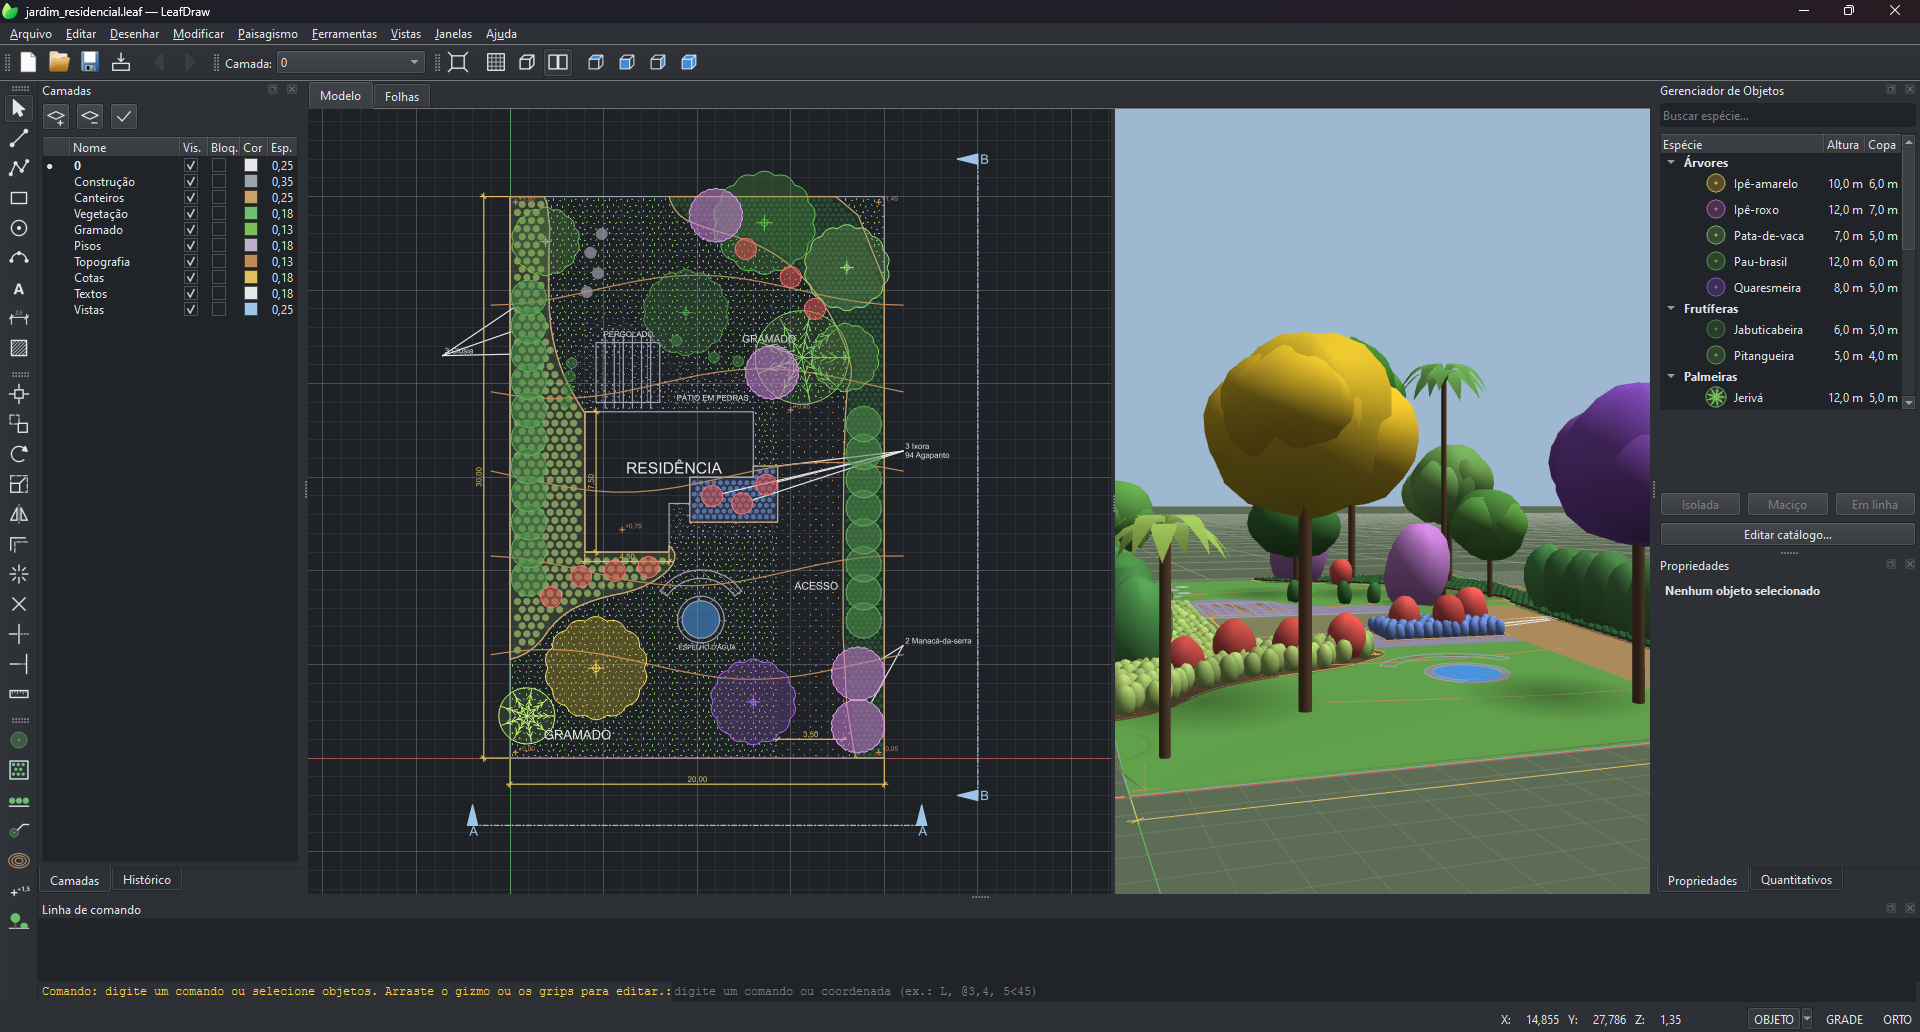
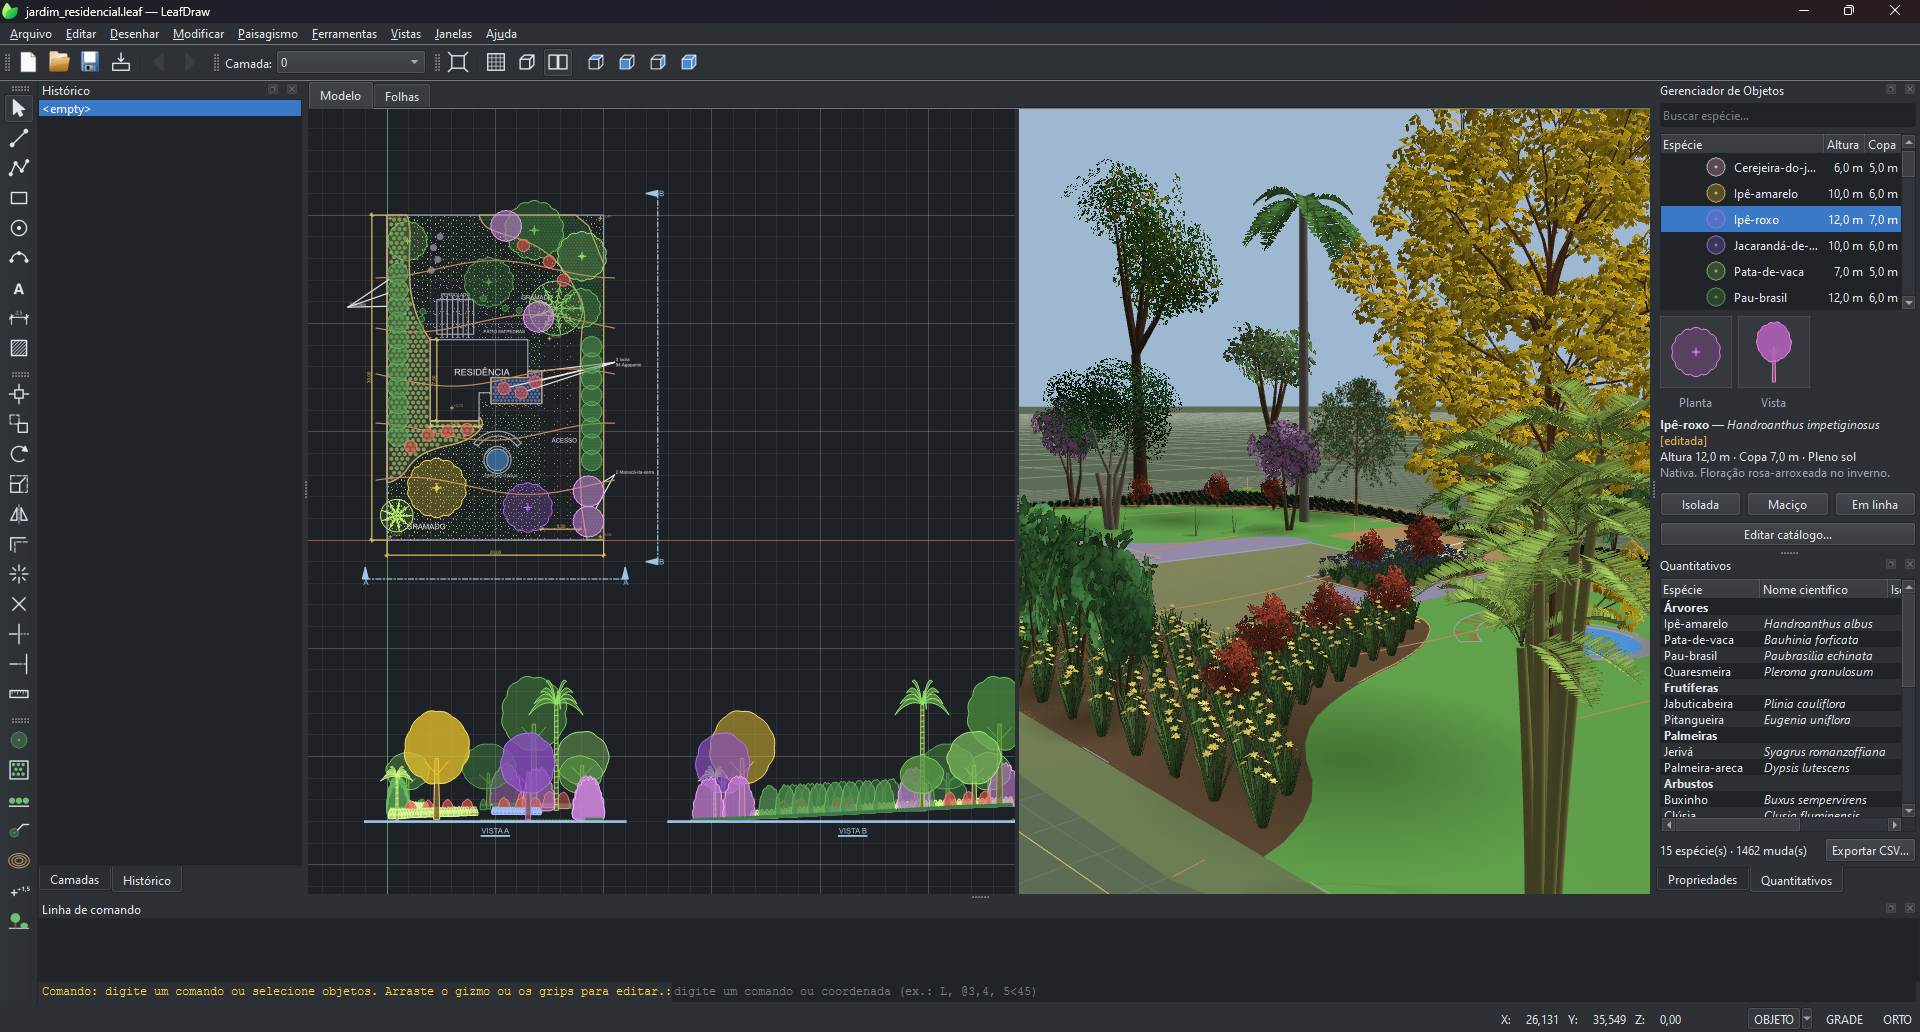
Versão 0.1.0b3
O autoteste do executável empacotado abre todos os modelos 3D do catálogo
embutido e informa quantos modelos foram empacotados.

diff --git a/leafdraw/app.py b/leafdraw/app.py
@@ -60,10 +60,18 @@ def _smoke_test(app, win, out_path: str):
             raise RuntimeError("OpenGL não inicializou (render_image retornou None)")
         sheet = default_sheet(doc.bounds())
         info = win.view3d.gl_info
+        # biblioteca de modelos 3D empacotada: todo modelo do catálogo embutido abre
+        from leafdraw.core.catalog import MODELS_DIR, PlantCatalog
+        from leafdraw.core.gltf import load_model
+        builtin = [s for s in PlantCatalog.load().all() if s.modelo_3d]
+        for s in builtin:
+            load_model(MODELS_DIR / s.modelo_3d)
+        n_models = len(list(MODELS_DIR.rglob("*.glb")))
         Path(out_path).write_text(
             f"OK LeafDraw {__version__}\n"
             f"especies={len(win.catalog.all())} entidades={len(doc.entities)} "
-            f"folha={sheet.paper} imagem3d={img.width()}x{img.height()}\n"
+            f"folha={sheet.paper} imagem3d={img.width()}x{img.height()} "
+            f"modelos3d={n_models} (catálogo: {len(builtin)} abertos)\n"
             f"GL={info.get('GL_VERSION', '?')} {info.get('GL_RENDERER', '?')}\n", encoding="utf-8")
         code = 0
     except Exception:

diff --git a/leafdraw/__init__.py b/leafdraw/__init__.py
@@ -1,3 +1,3 @@
 """LeafDraw — CAD para paisagismo."""
 
-__version__ = "0.1.0b2"
+__version__ = "0.1.0b3"
